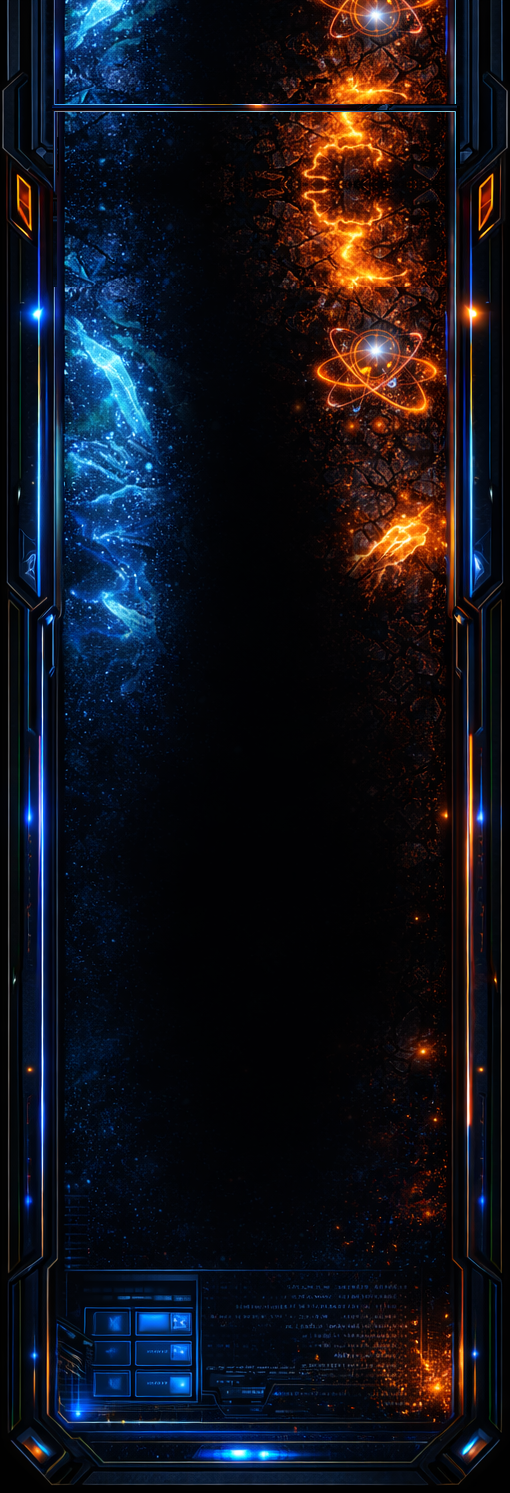
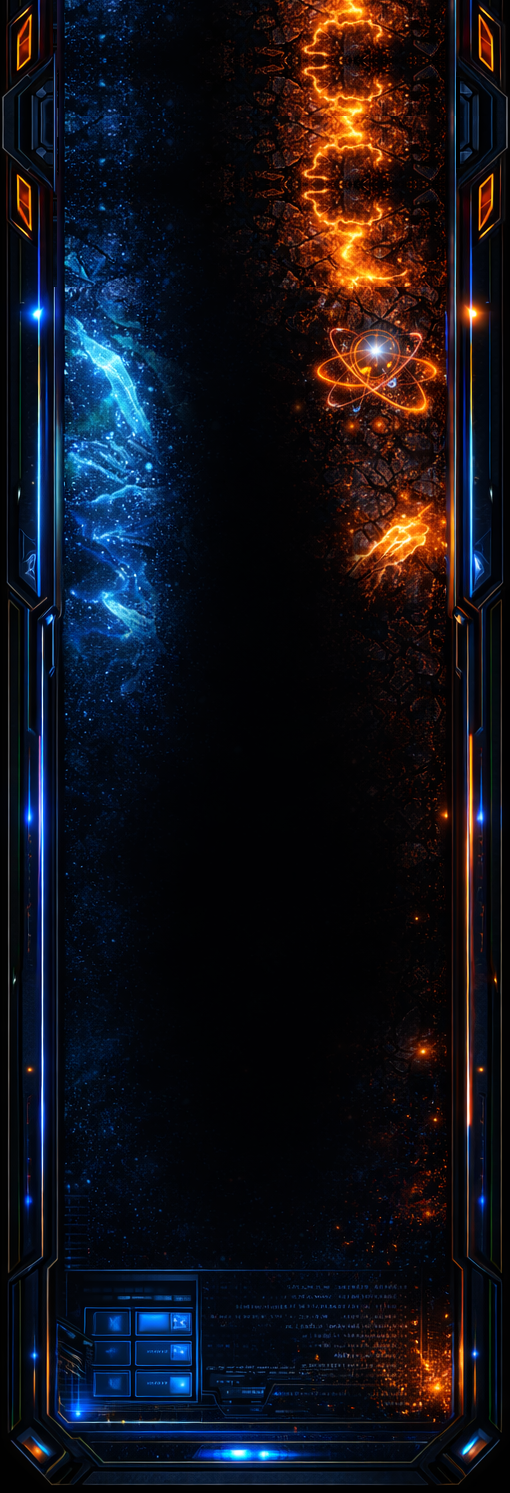
Add files via upload

Changed region(s): [[0.4706, 0.0, 1.0, 0.0924], [0.0, 0.0, 0.4118, 0.0924]]

diff --git a/index.css b/index.css
@@ -63,7 +63,7 @@ body {
   overflow-y: auto;           /* scroll if content exceeds */
 
   /* Background image settings */
-  background-image: url(side-bar.png?v=7);
+  background-image: url(side-bar.png?v=8);
   background-repeat: no-repeat;
   background-position: top left;
 

diff --git a/index.html b/index.html
@@ -11,7 +11,7 @@ NOTES: Sidebar fixed in left table cell; content in right cell; dropdowns scroll
 <head>
 <meta charset="UTF-8">
 <title>MercWar Standard C & WinAPI Tutorial</title>
-<link rel="stylesheet" href="index.css?v=73">
+<link rel="stylesheet" href="index.css?v=74">
 <link rel="stylesheet" href="index1.css?v=63">
 <link rel="stylesheet" href="rru_gx.css?v=50">
 </head>